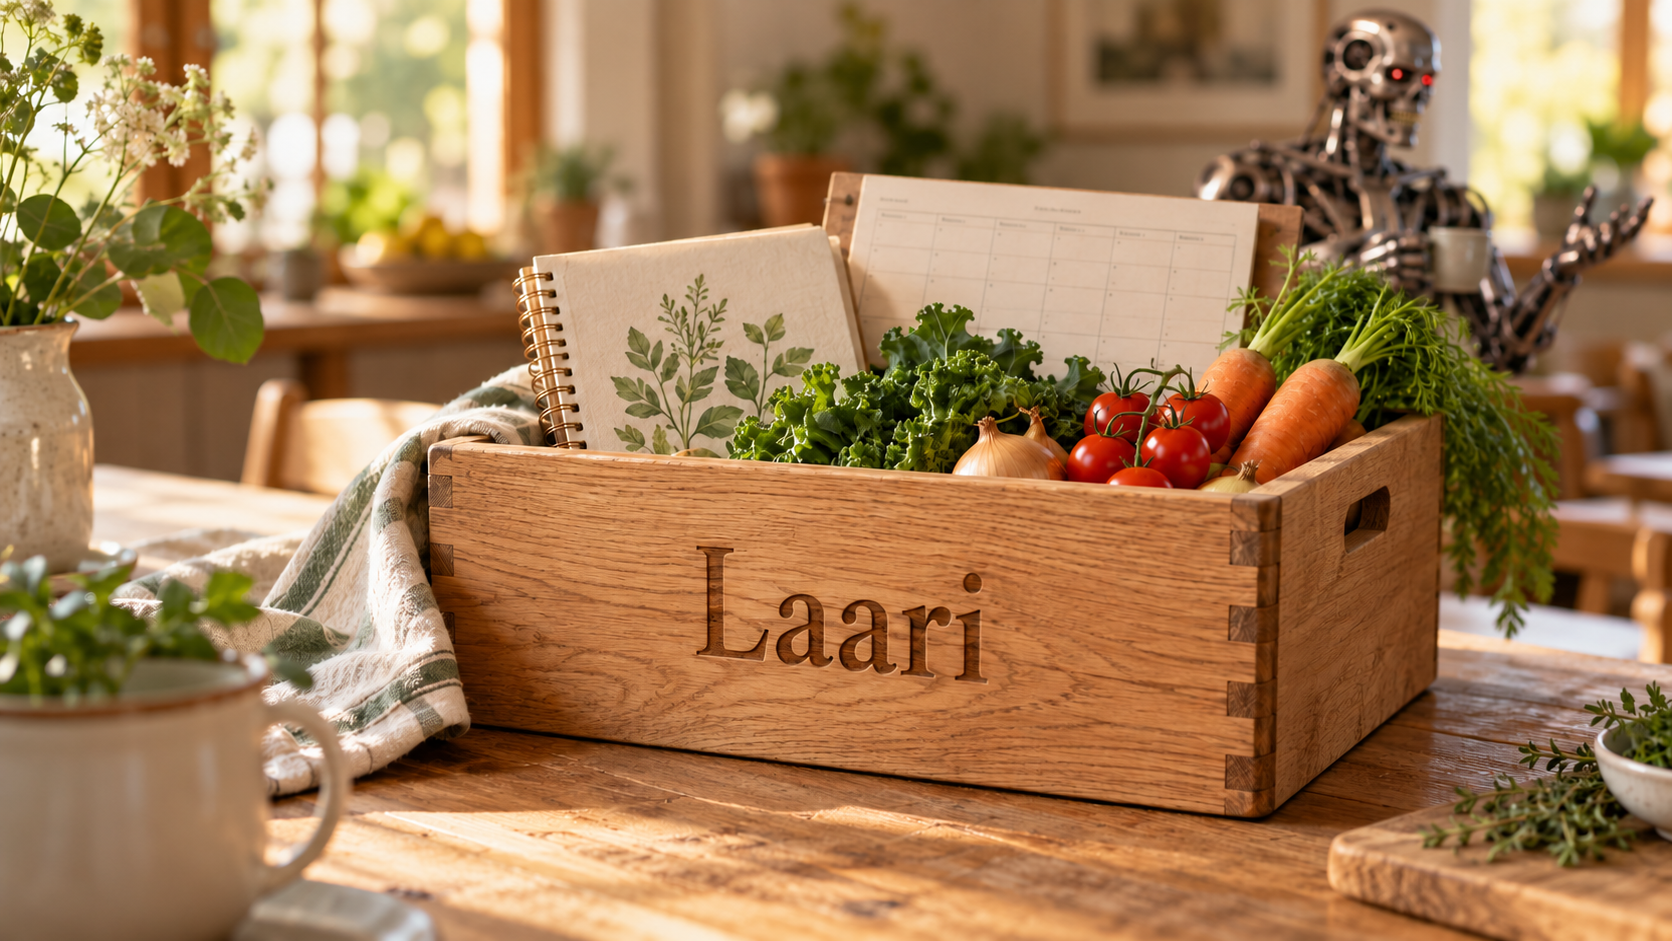
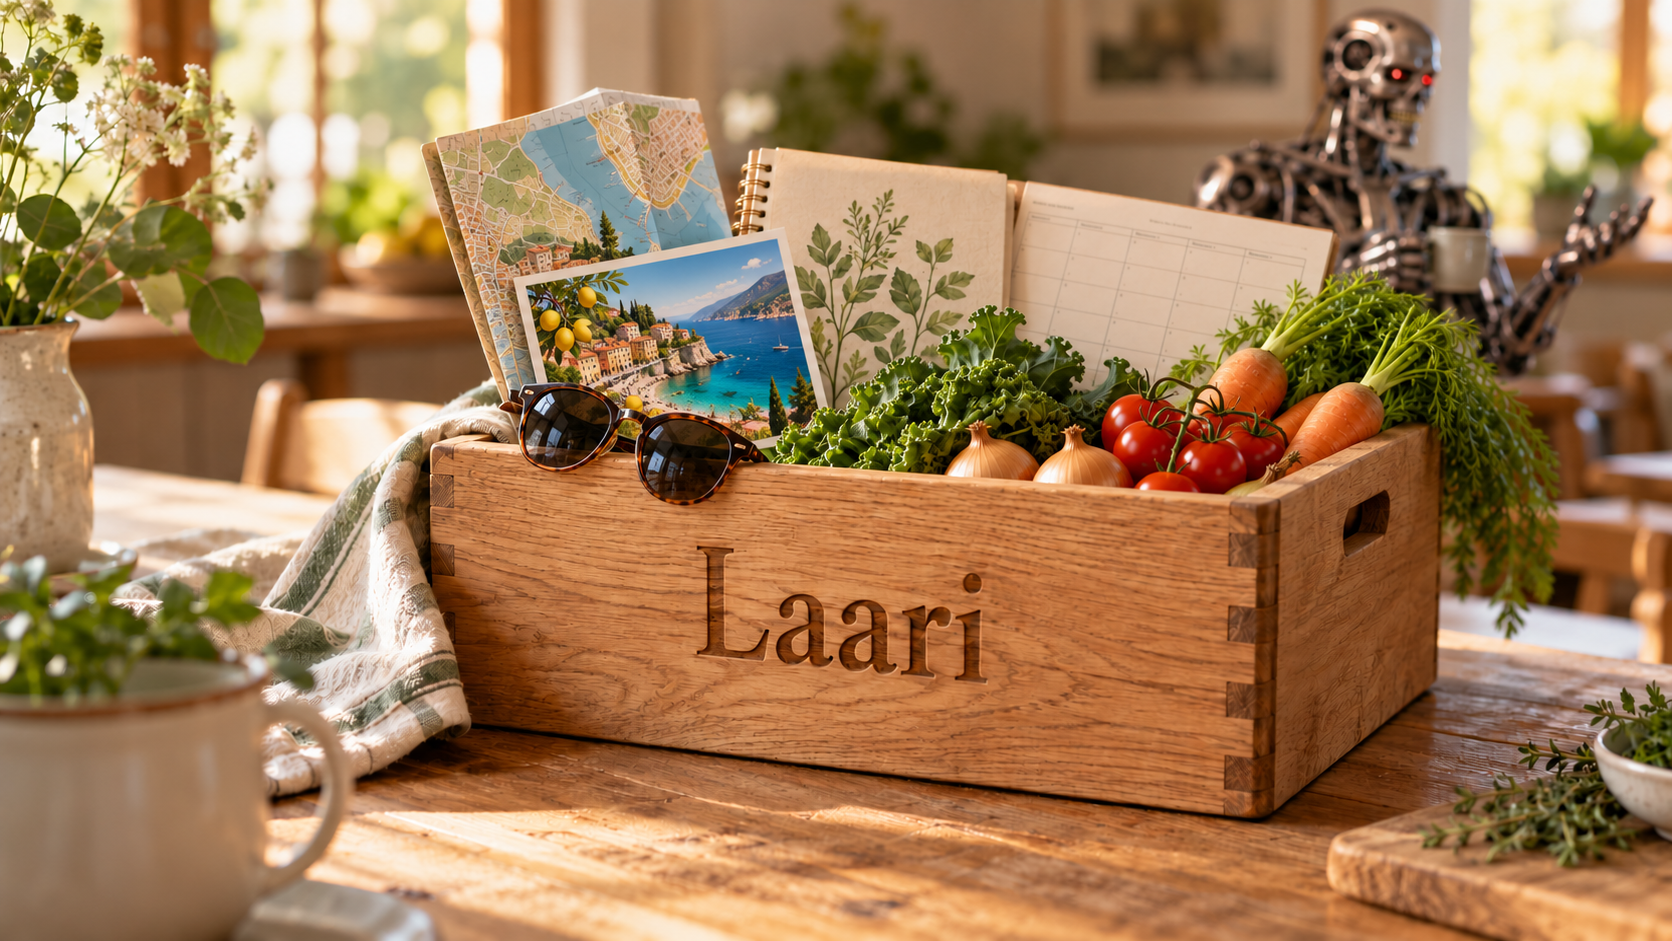
docs: update README hero image for vacation planning

diff --git a/README.md b/README.md
@@ -1,6 +1,6 @@
 # Laari — tekoälyskillejä arjen avuksi
 
-![Puinen Laari-laatikko, jossa on reseptivihko, viikkosuunnitelma ja tuoreita kasviksia. Taustalla T-800 höpöttelee kahvikuppi kädessään.](assets/laari-kodin-askareet.png)
+![Puinen Laari-laatikko, jossa on reseptivihko, viikkosuunnitelma, kasviksia sekä lomakartta, rantapostikortti ja aurinkolasit. Taustalla T-800 höpöttelee kahvikuppi kädessään.](assets/laari-kodin-askareet.png)
 
 *Kurkkaa laariin, kun arki kaipaa apua.*
 
